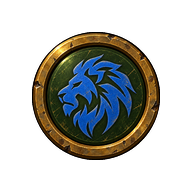
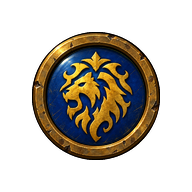
Correct Horde and Alliance faction button emblems

Changed region(s): [[0.2188, 0.2188, 0.7812, 0.7812]]

diff --git a/images/parts/faction-icon-correction.md b/images/parts/faction-icon-correction.md
@@ -1,0 +1,27 @@
+# Faction icon correction
+
+The user flagged the original faction buttons as incorrect. The original brief
+requested invented faction-inspired designs; this correction supersedes that
+direction for `icon-horde.png` and `icon-alliance.png`.
+
+Built-in image generation was used to replace the trident-like Horde crest
+with a recognizable red Horde insignia, and the generic blue lion with a gold
+Alliance lion on royal blue. These are generated renditions, not extracted
+Blizzard texture files or guaranteed exact vector reproductions.
+
+Prompt direction: preserve a front-facing worn brass button, upper-left light,
+and transparent margins; change the center to the recognizable classic faction
+emblem, with no text. Horde: red tribal silhouette with central diamond and
+hooked sides, not a trident. Alliance: left-facing gold heraldic lion on blue,
+not a generic mascot. Generation IDs are in `generation-sources.json`.
+
+Authorized Pillow finishing inserted the generated centers into the original
+brass rims. Both source PNGs remain 192x192; their alpha channels are byte-for-byte
+unchanged. Authoring TGA exports were rebuilt and round-trip verified; current
+planner geometry previews were refreshed. `_faction-icons-corrected.png` shows
+the final pair. Older contact sheets and original concept mockups are historical
+and may still show the previous symbols.
+
+All 47 checks in `tools/check_art.py` pass. No addon runtime textures or Lua were
+changed; regenerate the shipped textures during integration. No in-game check
+was performed.
